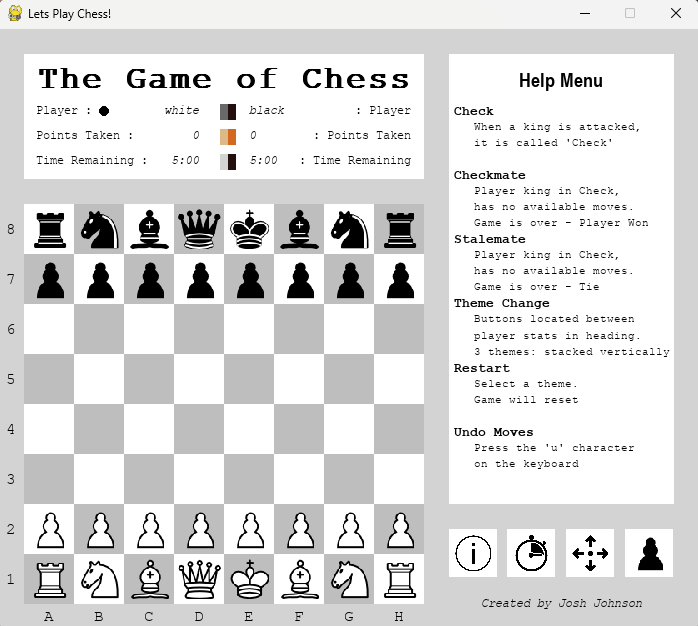
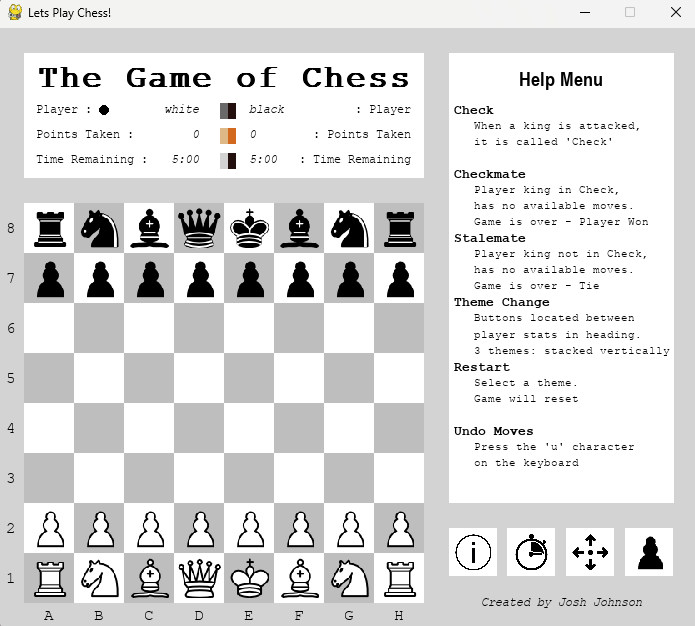
Update help menu text

diff --git a/Chess/Display.py b/Chess/Display.py
@@ -789,7 +789,7 @@ def help_menu_display(screen):
     screen.blit(help_menu_label, (log_frame_starting_x_coordinate + 5, section_spacing_y * 2 + section_starting_y))
 
     # section 3 - content; stalemate
-    label_text = "Player king in Check,"
+    label_text = "Player king not in Check,"
     help_menu_label = help_content_font.render(label_text, True, font_color)
     screen.blit(help_menu_label, (log_frame_starting_x_coordinate + GAP, section_spacing_y * 2  + (section_spacing_y / 4) + section_starting_y))
 
